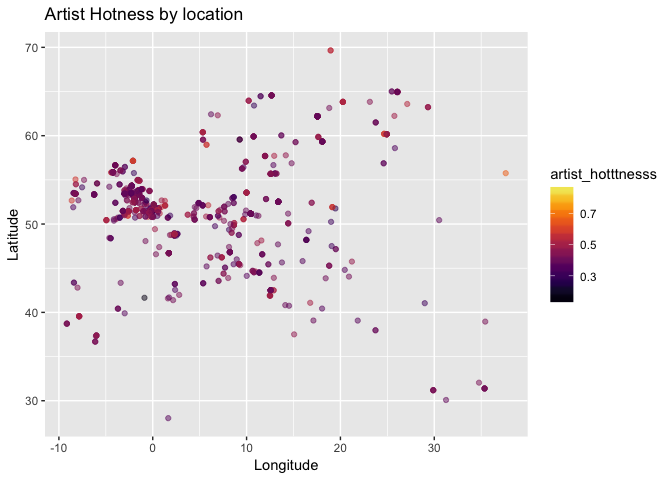
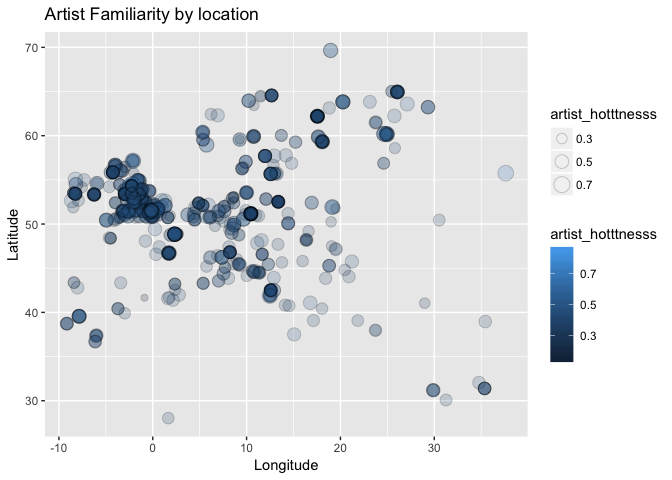
finishing touches

diff --git a/hw05_factorizing and data management/hw5.md b/hw05_factorizing and data management/hw5.md
@@ -160,7 +160,7 @@ sl_facFYear <- (filter(sl_facF, year != "0"))
 
 **Second part of the quesiton:** Additionally, remove unused factor levels. Provide concrete information on the data before and after removing these rows and levels; address the number of rows and the levels of the affected factors.
 
-I for my factor city, there are a numbe of NA values.
+I for my factor `city`, there are a number of NA values.
 
 ``` r
 sl_facF_cityna <- (sl_facFYear %>% 
@@ -281,8 +281,6 @@ str(sl_new3)
 
 I decided to reorder `artist_name` by maximum of song duration but since this is so much data and the next step is a graph - I filtered to only before 1990 and only in Philadelphia which seemed to be a popular location. First I had to factorize `artist_name`, then create a summarized coloumn of duration maximum for each artist name. But then I ran into an issue that you can't factor reorder a grouping variable. To solve this I took my newly created `sl_summary` which had the summary statistic that I wanted and left joined it with `sl_new3`
 
-This seems to have worked perfectly.
-
 ``` r
 sl_small2 <- (sl_new3 %>% 
   filter(year <= 1990 & city=="Philadelphia, PA"))
@@ -301,6 +299,8 @@ levels(sl_order$artist_name_factor)
     ##  [7] "First Choice"          "Pieces Of A Dream"    
     ##  [9] "Jimmy McGriff"         "David Bromberg"       
     ## [11] "McCoy Tyner"           "Pat Martino"
+
+This seems to have worked perfectly.
 
 **Common part:** Explore effects of `arrange()`:
 
@@ -470,44 +470,6 @@ City_hotnessDelim <-read.delim("City_hotness")
 
 **Visualization design**
 
-``` r
-singer_locations %>% 
-  summary(artist_hotttnesss)
-```
-
-    ##    track_id            title             song_id         
-    ##  Length:10100       Length:10100       Length:10100      
-    ##  Class :character   Class :character   Class :character  
-    ##  Mode  :character   Mode  :character   Mode  :character  
-    ##                                                          
-    ##                                                          
-    ##                                                          
-    ##                                                          
-    ##    release           artist_id         artist_name             year     
-    ##  Length:10100       Length:10100       Length:10100       Min.   :   0  
-    ##  Class :character   Class :character   Class :character   1st Qu.:1994  
-    ##  Mode  :character   Mode  :character   Mode  :character   Median :2002  
-    ##                                                           Mean   :1979  
-    ##                                                           3rd Qu.:2006  
-    ##                                                           Max.   :2010  
-    ##                                                                         
-    ##     duration         artist_hotttnesss artist_familiarity    latitude     
-    ##  Min.   :   0.6004   Min.   :0.0000    Min.   :0.0000     Min.   :-45.87  
-    ##  1st Qu.: 184.0518   1st Qu.:0.3644    1st Qu.:0.5164     1st Qu.: 35.15  
-    ##  Median : 231.3791   Median :0.4098    Median :0.5960     Median : 40.72  
-    ##  Mean   : 248.3994   Mean   :0.4149    Mean   :0.5976     Mean   : 40.05  
-    ##  3rd Qu.: 288.4567   3rd Qu.:0.4673    3rd Qu.:0.6781     3rd Qu.: 50.88  
-    ##  Max.   :2149.3285   Max.   :1.0213    Max.   :1.0000     Max.   : 69.65  
-    ##                                                           NA's   :5968    
-    ##    longitude            name               city          
-    ##  Min.   :-155.434   Length:10100       Length:10100      
-    ##  1st Qu.: -90.200   Class :character   Class :character  
-    ##  Median : -74.727   Mode  :character   Mode  :character  
-    ##  Mean   : -53.632                                        
-    ##  3rd Qu.:  -1.465                                        
-    ##  Max.   : 175.471                                        
-    ##  NA's   :5968
-
 Here I decided to examine artist hotttnesss by year. After trying this plot the first time I realized that I needed to remove 0s from both these variables.
 
 ``` r
@@ -519,7 +481,7 @@ plot1 <- singer_locations %>%
 plot1
 ```
 
-![](hw5_files/figure-markdown_github-ascii_identifiers/unnamed-chunk-24-1.png)
+![](hw5_files/figure-markdown_github-ascii_identifiers/unnamed-chunk-23-1.png)
 
 Here I tried to show artist hotttness by latitude but had some issues with the full range of data showing up and being legible.
 
@@ -536,7 +498,7 @@ plot2 <- singer_locations %>%
 plot2
 ```
 
-![](hw5_files/figure-markdown_github-ascii_identifiers/unnamed-chunk-25-1.png)
+![](hw5_files/figure-markdown_github-ascii_identifiers/unnamed-chunk-24-1.png)
 
 One of Tamara Munzner's suggests was to use Viridis which has scales based on luminance. I also realized how redundant this was to just have the two variables and a repeat by color so I decided to plot artist familiarity too.
 
@@ -563,7 +525,7 @@ plot2 <- singer_locations %>%
 plot2
 ```
 
-![](hw5_files/figure-markdown_github-ascii_identifiers/unnamed-chunk-26-1.png)
+![](hw5_files/figure-markdown_github-ascii_identifiers/unnamed-chunk-25-1.png)
 
 We can see form this data that there is more data in the north but also seems like lower overall ratings of familiarity.
 
@@ -584,7 +546,7 @@ plot3 <- singer_locations %>%
 plot3
 ```
 
-![](hw5_files/figure-markdown_github-ascii_identifiers/unnamed-chunk-27-1.png)
+![](hw5_files/figure-markdown_github-ascii_identifiers/unnamed-chunk-26-1.png)
 
 Again this is pretty clusted but seems to show the most familiar artists are in the Europe and USA. Here I am going to zoom in on the UK.
 
@@ -604,7 +566,7 @@ plot4 <- singer_locations %>%
 plot4
 ```
 
-![](hw5_files/figure-markdown_github-ascii_identifiers/unnamed-chunk-28-1.png)
+![](hw5_files/figure-markdown_github-ascii_identifiers/unnamed-chunk-27-1.png)
 
 It is still pretty hard to read because of crowding. Maybe it is time to stop worrying about colour and use shape instead:
 
@@ -624,7 +586,7 @@ plot5 <- singer_locations %>%
 plot5
 ```
 
-![](hw5_files/figure-markdown_github-ascii_identifiers/unnamed-chunk-29-1.png) I'm not really sure this is any better.
+![](hw5_files/figure-markdown_github-ascii_identifiers/unnamed-chunk-28-1.png) I'm not really sure this is any better.
 
 After searching through our notes and links on the stat 545 page I found [this](http://ggplot2.tidyverse.org/reference/geom_density_2d.html) example of a density plot.
 
@@ -652,7 +614,7 @@ plot6 <- singer_locations %>%
 plot6
 ```
 
-![](hw5_files/figure-markdown_github-ascii_identifiers/unnamed-chunk-30-1.png)
+![](hw5_files/figure-markdown_github-ascii_identifiers/unnamed-chunk-29-1.png)
 
 This seems to deal with the crowding a bit better and reveals the large crowding of data around probably London.
 
@@ -664,4 +626,4 @@ ggsave("Artist_Familiarity_by_Location.pdf", width = 30, height = 20, units = "c
 ggsave("Artist_Hotttness_by_Location.pdf", width = 30, height = 20, units = "cm", plot = plot6)
 ```
 
-Writing plots to files can be good for you to link say a plot of artitist familiarity [here]() or the one for artist hotttness [here]()
+Writing plots to files can be good for you to link say a plot of artitist familiarity [here](https://github.com/Jenncscampbell/STAT545-hw-Campbell-Jennifer/blob/master/hw05_factorizing%20and%20data%20management/Artist_Familiarity_by_Location.pdf) or the one for artist hotttness [here](https://github.com/Jenncscampbell/STAT545-hw-Campbell-Jennifer/blob/master/hw05_factorizing%20and%20data%20management/Artist_Hotttness_by_Location.pdf)
